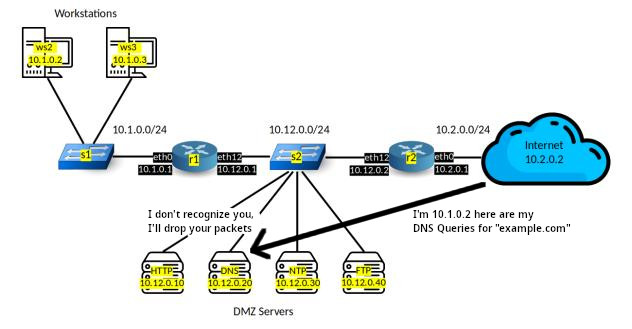
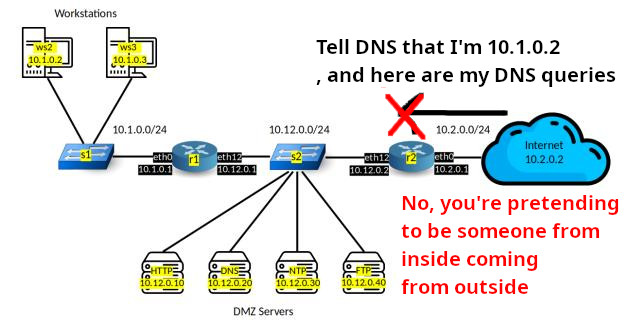
Dns fixed, slides fixed, report finished?

diff --git a/README.md b/README.md
@@ -42,6 +42,11 @@ For this [mitigation](https://github.com/l3un4m/Mininet/blob/main/defense/r2_dns
 r2 flush ruleset
 r2 nft -f defense/r2_dns.nft
 ```
+Since this rule only applies to traffic coming from outside the network I also added a [rule](https://github.com/l3un4m/Mininet/blob/main/defense/r1_dns.nft) that limits the rate of received dns packets to 5 per second so that if hosts inside DMZ are compromised they can't be used to perform a DNS Reflection that would cause DOS.
+```
+r1 flush ruleset
+r1 nft -f defense/r1_dns.nft
+```
 
 ![dns\_def](/screenshots/dns_def.jpg)
 
